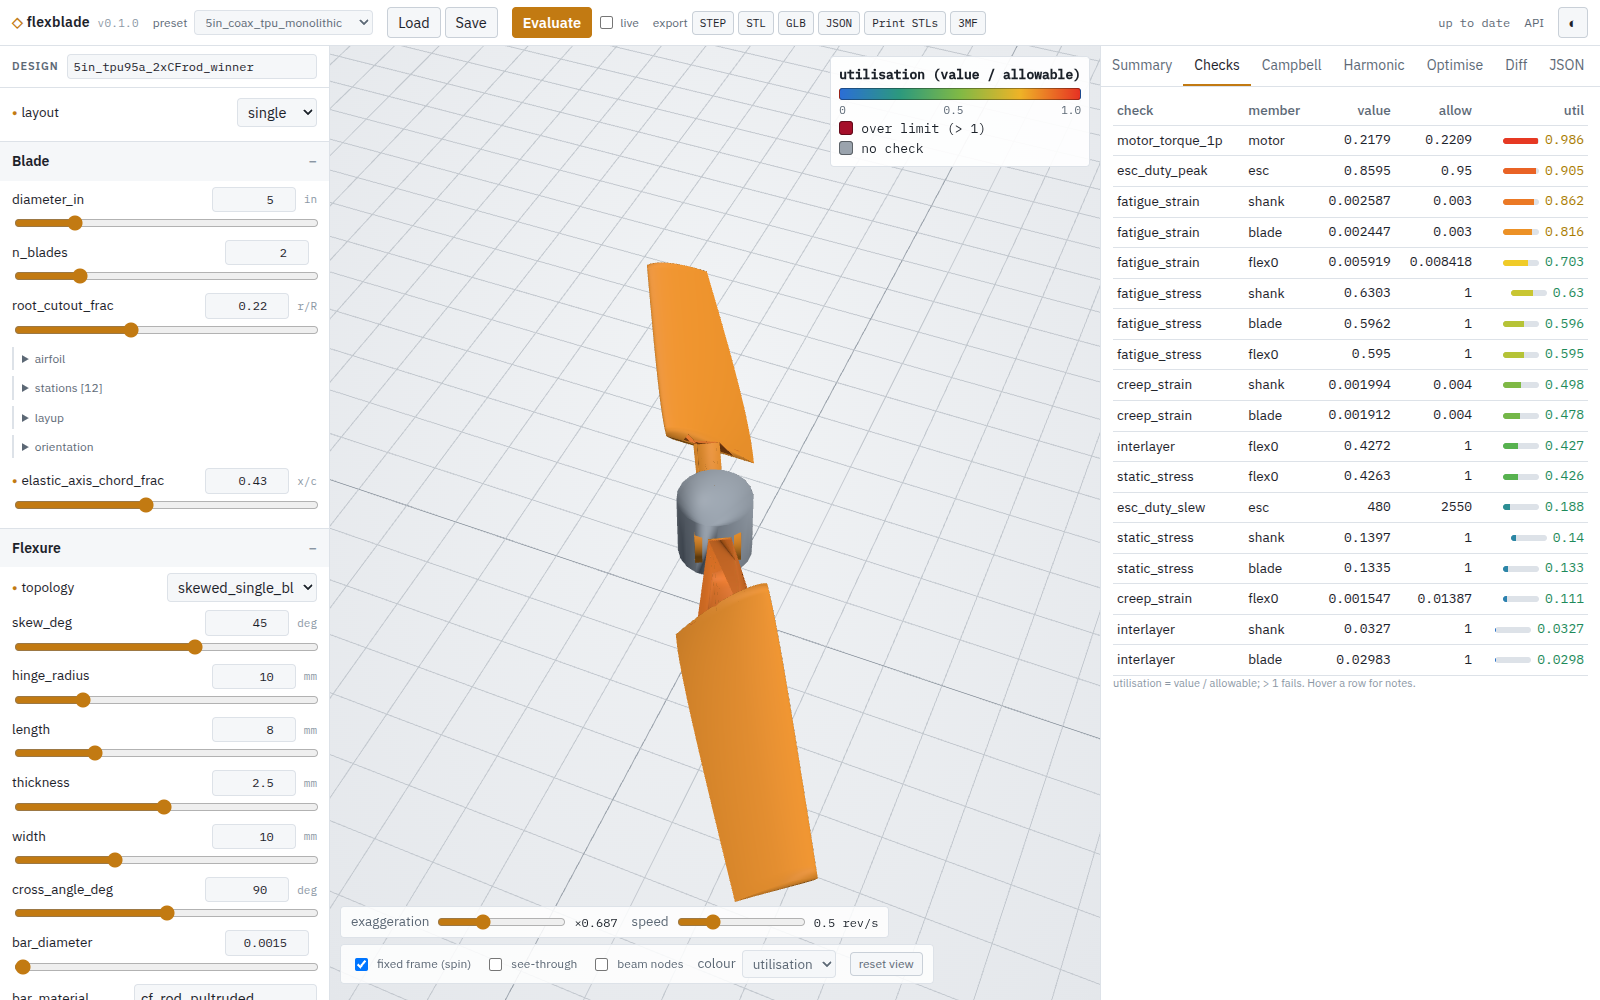
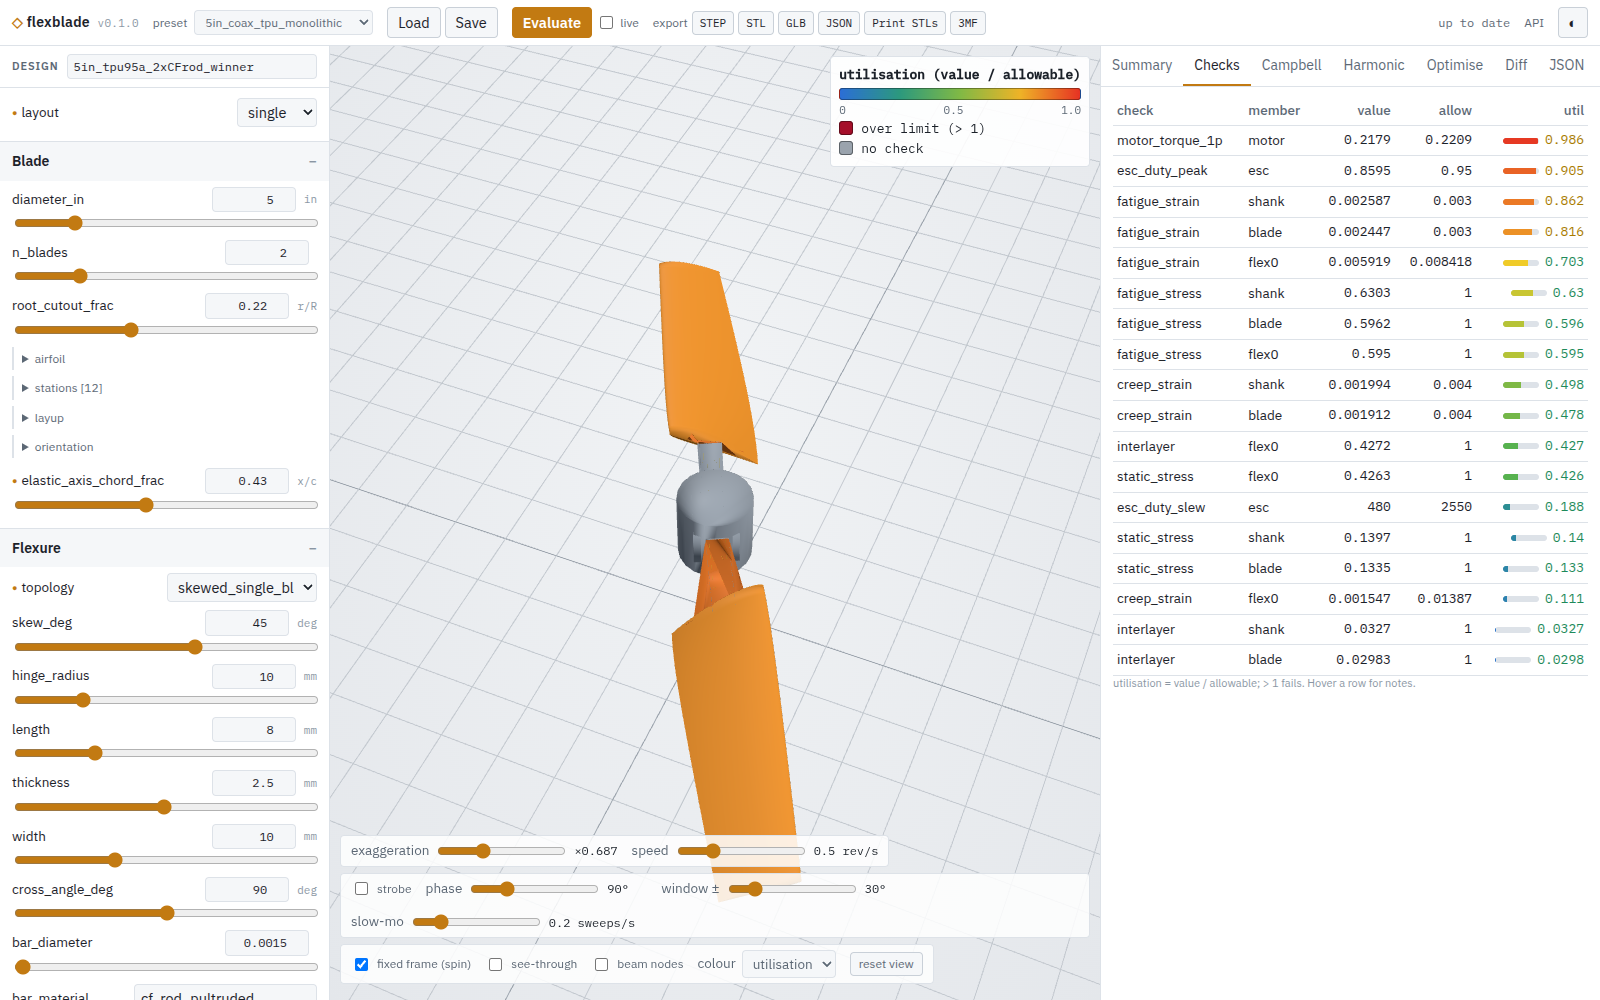
flexblade gui: fix utilisation colouring (blade check matched every part); stroboscope slow-mo view

diff --git a/flexblade/flexblade/gui/static/js/app.js b/flexblade/flexblade/gui/static/js/app.js
@@ -122,11 +122,16 @@ function partUtilColour(part) {
   const rotor = part.rotor || ((part.name || '').match(/^(upper|lower)/i) || [])[1]?.toLowerCase();
   const sub = S.results?.coaxial && rotor ? S.results.coaxial[rotor] : S.results;
   const checks = sub?.checks || [];
-  const name = (part.name || '').toLowerCase().replace(/^(upper|lower)_/, ''), role = (part.role || '').toLowerCase();
+  // part names look like [upper_|lower_]blade1_flex0_rod1; check members like flex0, blade, shank
+  const role = (part.role || '').toLowerCase();
+  const local = (part.name || '').toLowerCase().replace(/^(upper|lower)_/, '').replace(/^blade\d+_?/, '');
   let u = null;
   for (const c of checks) {
     const m = (c.member || '').toLowerCase();
-    const hit = m === name || name.includes(m) || (m.includes(role) && role !== 'other') || ((role === 'flexure' || role === 'member') && m.startsWith('flex'));
+    let hit;
+    if (m === 'blade') hit = role === 'blade';                       // the aerodynamic blade only
+    else if (m === 'hub') hit = role === 'hub' || role === 'spoke';
+    else hit = local === m || local.startsWith(m + '_') || local.endsWith('_' + m);  // flex0, flex0_rod1, shank
     if (hit) u = Math.max(u ?? 0, c.utilisation);
   }
   return utilColour(u);
@@ -200,6 +205,24 @@ function wireViewerControls() {
   speed.oninput = upd;
   upd();
   S.updExag = upd;
+  const sc = $('#strobe-centre'), sr = $('#strobe-range'), srt = $('#strobe-rate');
+  const updStrobe = () => {
+    v.strobe = $('#strobe').checked;
+    v.strobeCentre = (Number(sc.value) * Math.PI) / 180;
+    v.strobeRange = (Number(sr.value) * Math.PI) / 180;
+    v.strobeRate = Number(srt.value);
+    $('#strobe-centre-out').textContent = `${sc.value}°`;
+    $('#strobe-range-out').textContent = `${sr.value}°`;
+    $('#strobe-rate-out').textContent = `${fmt(v.strobeRate, 2)} sweeps/s`;
+    if (!v.strobe) $('#strobe-psi').textContent = '';
+  };
+  for (const e of [$('#strobe'), sc, sr, srt]) e.oninput = e.onchange = updStrobe;
+  updStrobe();
+  let lastShown = 0;
+  v.onPhase = (psi) => {
+    const now = performance.now();
+    if (now - lastShown > 80) { $('#strobe-psi').textContent = `ψ = ${((psi * 180) / Math.PI).toFixed(0)}°`; lastShown = now; }
+  };
   $('#rotating').onchange = (e) => (v.rotating = e.target.checked);
   $('#show-nodes').onchange = (e) => (v.showNodes = e.target.checked);
   $('#see-through').onchange = (e) => v.setSeeThrough(e.target.checked);

diff --git a/flexblade/flexblade/gui/static/index.html b/flexblade/flexblade/gui/static/index.html
@@ -56,6 +56,13 @@
         <label>exaggeration <input type="range" id="exag" min="0" max="3" step="0.01" value="1"><output id="exag-out"></output></label>
         <label>speed <input type="range" id="speed" min="0" max="2" step="0.01" value="0.5"><output id="speed-out"></output></label>
       </div>
+      <div class="vp-row" title="Stroboscope / slow-motion: freeze the rotor near one azimuth and sweep back and forth through part of the cycle">
+        <label class="toggle"><input type="checkbox" id="strobe"> strobe</label>
+        <label>phase <input type="range" id="strobe-centre" min="0" max="360" step="1" value="90"><output id="strobe-centre-out"></output></label>
+        <label>window ± <input type="range" id="strobe-range" min="0" max="180" step="1" value="30"><output id="strobe-range-out"></output></label>
+        <label>slow-mo <input type="range" id="strobe-rate" min="0.02" max="1" step="0.01" value="0.2"><output id="strobe-rate-out"></output></label>
+        <output id="strobe-psi" class="mono"></output>
+      </div>
       <div class="vp-row">
         <label class="toggle"><input type="checkbox" id="rotating" checked> fixed frame (spin)</label>
         <label class="toggle"><input type="checkbox" id="see-through"> see-through</label>

diff --git a/flexblade/flexblade/gui/static/js/viewer.js b/flexblade/flexblade/gui/static/js/viewer.js
@@ -442,7 +442,16 @@ export class Viewer {
     const now = performance.now();
     const dt = Math.min(0.1, (now - this.last) / 1000);
     this.last = now;
-    this.psi = (this.psi + dt * this.speed * 2 * Math.PI) % (2 * Math.PI);
+    if (this.strobe) {
+      // stroboscope / slow-mo: lock to one azimuth and sweep back and forth (boomerang,
+      // eased at the ends) through ±range around it, at strobeRate sweeps per second
+      this.strobeT = ((this.strobeT || 0) + dt * (this.strobeRate || 0.25)) % 1;
+      const x = -Math.cos(2 * Math.PI * this.strobeT);
+      this.psi = (((this.strobeCentre || 0) + (this.strobeRange || 0) * x) % (2 * Math.PI) + 2 * Math.PI) % (2 * Math.PI);
+      if (this.onPhase) this.onPhase(this.psi);
+    } else {
+      this.psi = (this.psi + dt * this.speed * 2 * Math.PI) % (2 * Math.PI);
+    }
     for (const s of Object.values(this.slots)) {
       s.group.rotation.z = this.rotating ? s.sign * this.psi : 0;
       if (s.nodePts) s.nodePts.visible = this.showNodes;
